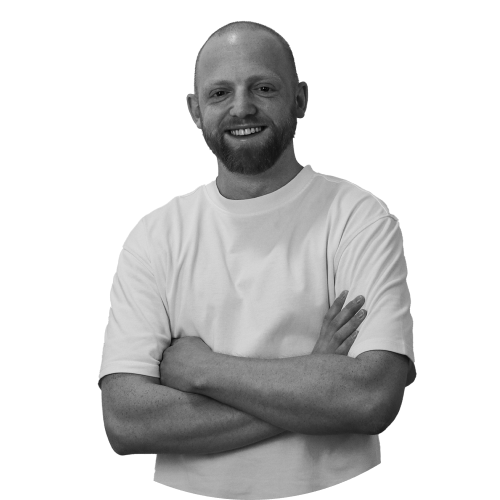
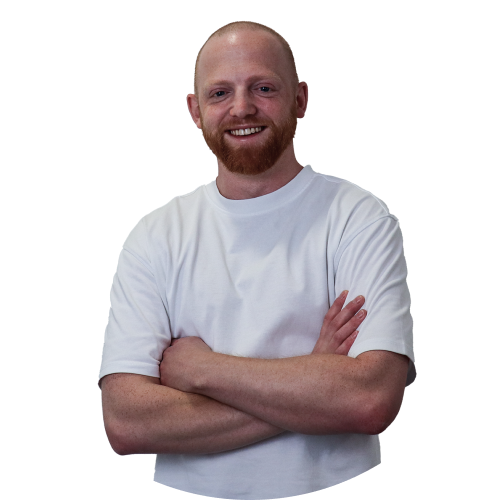
Final touches home

Changed region(s): [[0.21, 0.57, 0.81, 0.9], [0.36, 0.03, 0.63, 0.42]]

diff --git a/src/pages/Home.js b/src/pages/Home.js
@@ -8,7 +8,13 @@ export function Home() {
       <div className={styles.mainSection}>
         <h1 className={styles.greeting}>Hoi, ik ben</h1>
         <h1 className={styles.name}>Thomas van den Heuvel</h1>
-        <h2>Developer | Tester | UX/UI Designer</h2>
+        <div className={styles.roles}>
+          <h2>Developer</h2>
+          <h2>|</h2>
+          <h2>Tester</h2>
+          <h2>|</h2>
+          <h2>UX/UI Designer</h2>
+        </div>
         <div className={styles.clickThroughLinks}>
           <ul>
             <li>

diff --git a/src/pages/Home.module.css b/src/pages/Home.module.css
@@ -3,6 +3,7 @@
   display: flex;
   justify-content: space-between;
   gap: 3rem;
+  width: 100%;
 }
 
 .mainSection {
@@ -27,7 +28,12 @@
   background-color: #a1d3af;
 }
 
-.mainSection h2 {
+.roles {
+  display: flex;
+  gap: 1.2rem;
+}
+
+.roles h2 {
   padding-top: 1rem;
   font-weight: 400;
   font-size: 1.1rem;
@@ -59,4 +65,10 @@
 
 .photoSection img {
   height: 320px;
+  filter: grayscale(100%);
+  transition: 0.5s;
+}
+
+.photoSection img:hover {
+  filter: grayscale(0%);
 }

diff --git a/src/App.module.css b/src/App.module.css
@@ -16,6 +16,7 @@
   flex-direction: column;
   gap: 3rem;
   min-height: 100vh;
+  width: 960px;
 }
 
 ::selection {
